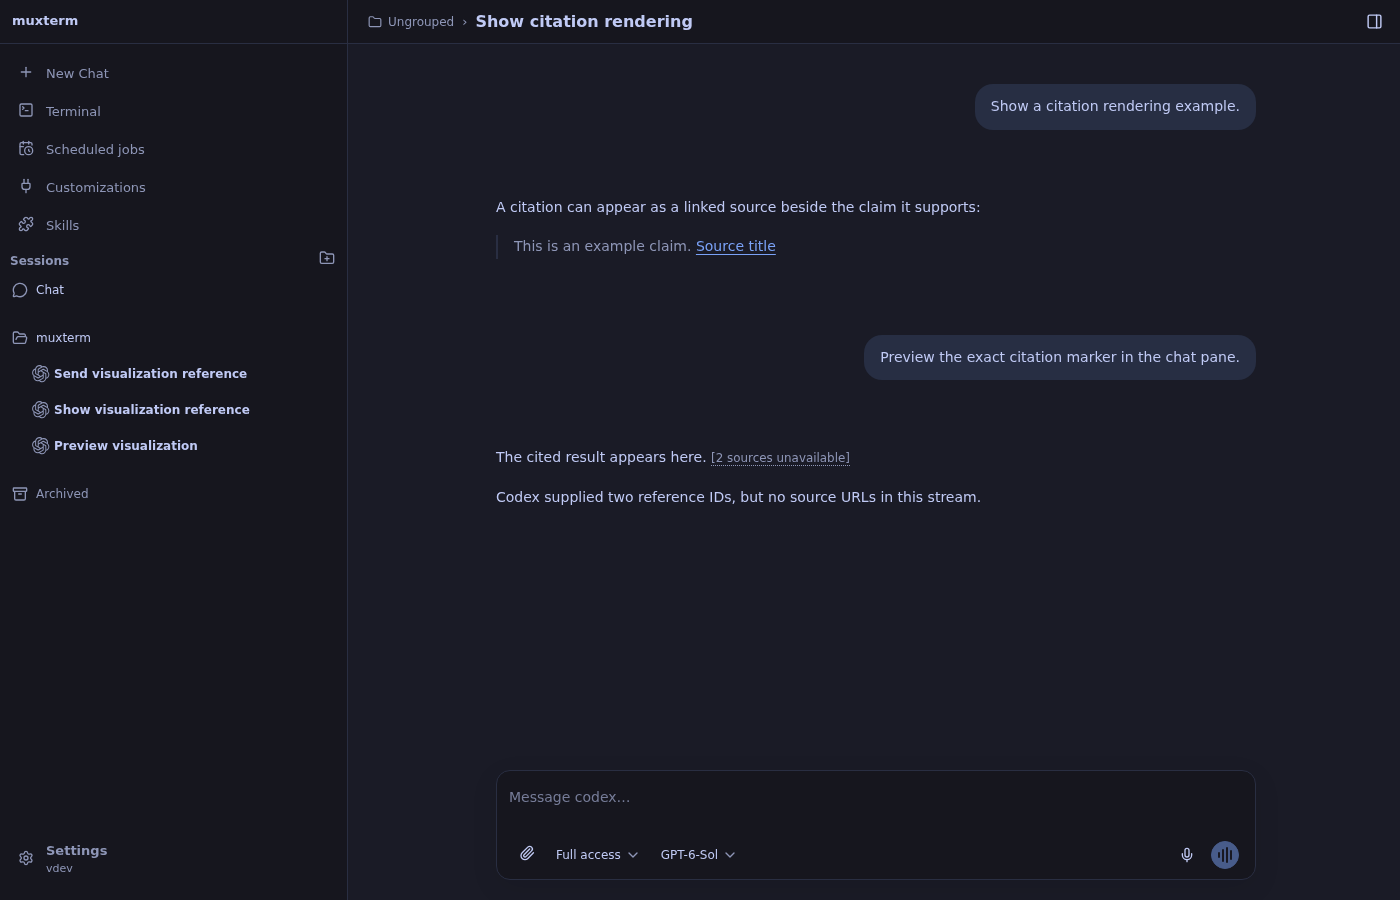
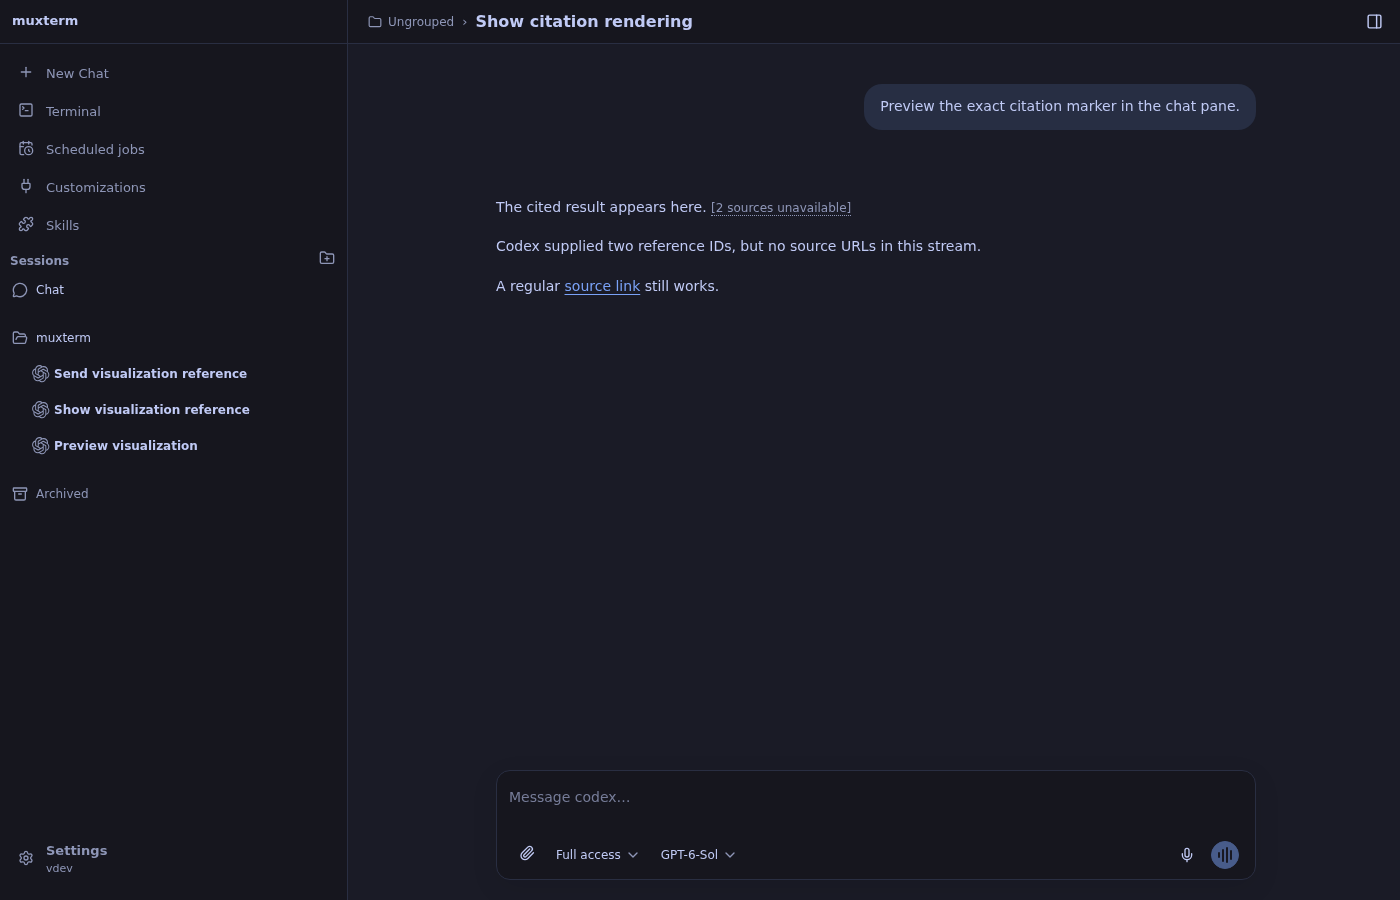
Catalog citation state and verify desktop and phone layouts

diff --git a/web/src/components/mux-sdk-chat.stories.ts b/web/src/components/mux-sdk-chat.stories.ts
@@ -40,6 +40,11 @@ const mermaidTranscript: ChatEvent[] = [
   {at:at(2),type:'assistant.delta',text:'Here is the chat flow:\n\n```mermaid\nflowchart LR\n  Draft --> Send\n  Send --> Agent\n  Agent --> Reply\n```\n\nThe reply appears in the session.'},
   {at:at(3),type:'turn.completed',inputIds:['diagram-1']},
 ];
+const citationTranscript: ChatEvent[] = [
+  {at:at(1),type:'input.accepted',kind:'user',source:'browser',inputId:'citation-1',text:'Show the citation marker in context.'},
+  {at:at(2),type:'assistant.delta',text:'The cited result appears here. citeturn912394view0turn272550view1\n\nCodex supplied reference IDs without source URLs.'},
+  {at:at(3),type:'turn.completed',inputIds:['citation-1']},
+];
 const goalify: ChatEvent[] = [
   ...transcript,
   {at:at(24),type:'input.accepted',kind:'user',source:'goalify',inputId:'goalify-1',text:'Refine goal with goalify'},
@@ -77,7 +82,7 @@ const settings = {
   ],
 };
 
-function chatFixture(id:string, state:'ready'|'working'|'uncertain' = 'ready', goalState:'none'|'active'|'proposal'|'cleared' = 'none', scenario:'default'|'delegated'|'reports'|'failed-report'|'goalify'|'mermaid' = 'default'): ApiFixture {
+function chatFixture(id:string, state:'ready'|'working'|'uncertain' = 'ready', goalState:'none'|'active'|'proposal'|'cleared' = 'none', scenario:'default'|'delegated'|'reports'|'failed-report'|'goalify'|'mermaid'|'citation' = 'default'): ApiFixture {
   let historyRequests = 0;
   const chat: SDKChat = {
     id, title:'Component library review', workspaceId:'project-1',
@@ -105,7 +110,7 @@ function chatFixture(id:string, state:'ready'|'working'|'uncertain' = 'ready', g
     ],
     observations:goalState === 'none' ? [] : [{at:at(4),event:{type:'goal.started',goalState:'active',goalSummary:'The native harness acknowledged revision 1.'}}],
   };
-  const events = scenario === 'delegated' ? delegated : scenario === 'reports' ? linkedReports : scenario === 'failed-report' ? failedLinkedReports : scenario === 'goalify' ? goalify : scenario === 'mermaid' ? mermaidTranscript : state === 'working' ? running : transcript;
+  const events = scenario === 'delegated' ? delegated : scenario === 'reports' ? linkedReports : scenario === 'failed-report' ? failedLinkedReports : scenario === 'goalify' ? goalify : scenario === 'mermaid' ? mermaidTranscript : scenario === 'citation' ? citationTranscript : state === 'working' ? running : transcript;
   const messages = events.filter(event => event.type !== 'tool.started' && event.type !== 'tool.completed');
   return ({url,method,init}) => {
     if (method === 'GET' && url.pathname.endsWith('/api/sdk-chats')) return fixtureJSON(goalState === 'proposal' ? [chat,operator] : [chat]);
@@ -149,6 +154,10 @@ export const Conversation: Story = {};
 export const MermaidDiagram: Story = {
   args:{sessionId:'storybook-chat-mermaid'},
   parameters:{apiFixture:chatFixture('storybook-chat-mermaid','ready','none','mermaid')},
+};
+export const CitationUnavailable: Story = {
+  args:{sessionId:'storybook-chat-citation'},
+  parameters:{apiFixture:chatFixture('storybook-chat-citation','ready','none','citation')},
 };
 export const ScrollToBottom: Story = {
   args:{sessionId:'storybook-chat-scroll-bottom'},

diff --git a/web/src/components/mux-sdk-chat.ts b/web/src/components/mux-sdk-chat.ts
@@ -406,7 +406,7 @@ export class MuxSDKChat extends LitElement {
     .text .md-pre code { color:inherit; font:var(--ui-text-lg)/1.6 var(--ui-font-mono); white-space:pre; }
     .text .md-pre[data-streaming] { border-bottom-color:var(--ui-accent); }
     .text .md-link { color:var(--ui-accent); text-decoration:underline; text-underline-offset:3px; }
-    .text .citation-unavailable { color:var(--ui-text-muted); font-size:.85em; white-space:nowrap; border-bottom:1px dotted currentColor; cursor:help; }
+    .text .citation-unavailable { color:var(--ui-text-muted); font-size:var(--ui-text-sm); white-space:nowrap; border-bottom:1px dotted currentColor; cursor:help; }
     .text .md-chat-link { display:inline-flex; align-items:baseline; gap:var(--ui-space-2); max-width:100%; padding:var(--ui-space-px) var(--ui-space-3); border:1px solid color-mix(in srgb,var(--ui-accent) 48%,transparent); border-radius:var(--ui-radius-md); background:color-mix(in srgb,var(--ui-accent) 12%,transparent); font-weight:600; text-decoration:none; overflow-wrap:anywhere; }
     .text .md-chat-link:hover { background:color-mix(in srgb,var(--ui-accent) 22%,transparent); text-decoration:underline; }
     .text .md-image-link { display:inline-block; max-width:100%; }
